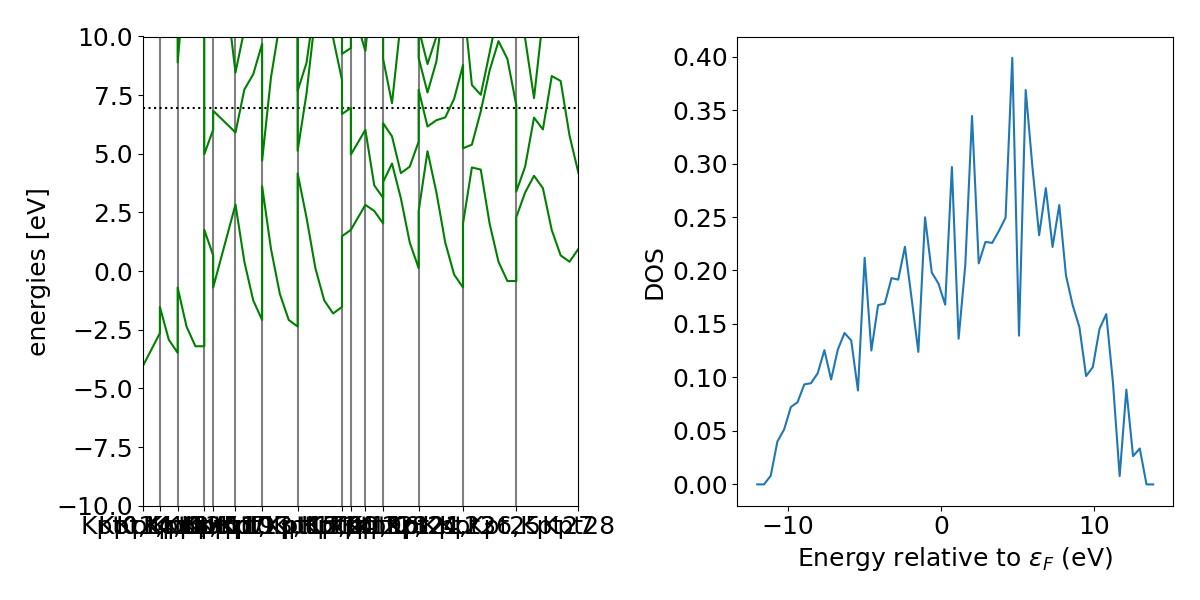
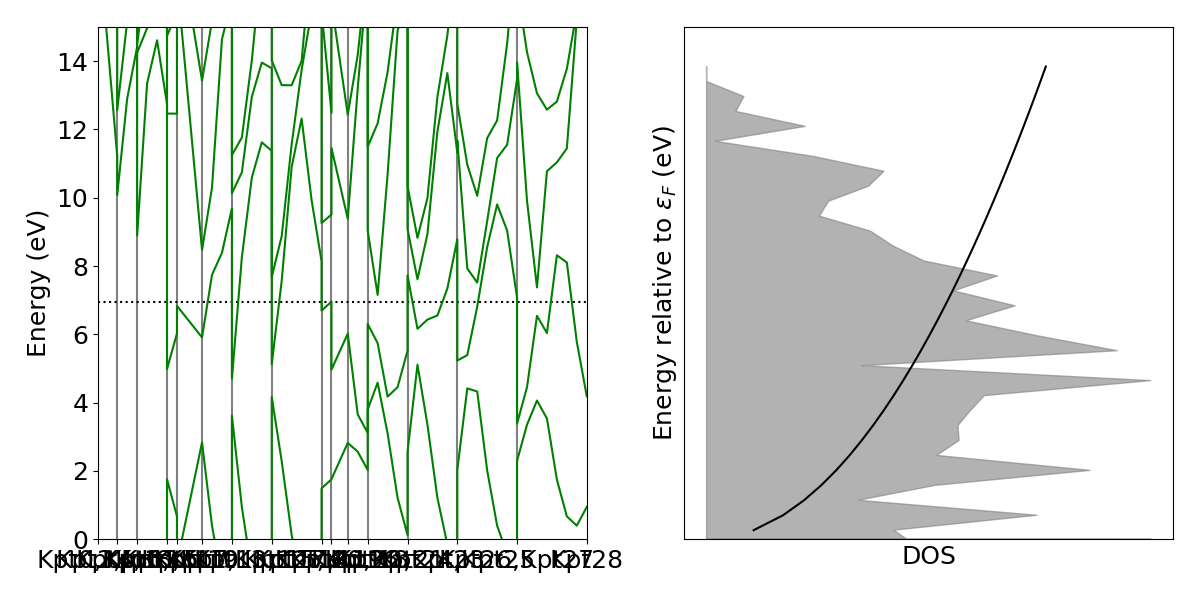
Rerun task7 single cored

Changed region(s): [[0.0, 0.03, 0.5242, 0.96], [0.5242, 0.06, 0.9558, 0.96], [0.0, 0.57, 0.0308, 0.6]]

diff --git a/ComputationalMaterialsAndMolecularphysics/HW5/task7/task7.py b/ComputationalMaterialsAndMolecularphysics/HW5/task7/task7.py
@@ -109,8 +109,8 @@ calc.get_potential_energy()
 
 # Get band structure and dos
 Ebs = atoms.calc.band_structure()  # Get the band structure
-if world.rank == 0:
-    print('Electronic band structure calculated')
+# if world.rank == 0:
+print('Electronic band structure calculated')
 
 e, dos = calc.get_dos(spin=0, npts=1001, width=0.2)  # Get energy and density of states
 e_f = calc.get_fermi_level()  
@@ -123,8 +123,8 @@ Edos = {
 # Save results
 pickle.dump( Ebs, open( "Ebs.p", "wb" ) )  # Save the electronic band structure
 pickle.dump( Edos, open( "Edos.p", "wb" ) )  # Save the electronic DOS
-if world.rank == 0:
-    print('Electronic structure calculation completed')
+# if world.rank == 0:
+print('Electronic structure calculation completed')
 
 
 #### Phononic band structure
@@ -142,25 +142,25 @@ N = 3  # Use a 3x3x3 supercell
 ph = Phonons(atoms, calc, supercell=(N, N, N), delta=0.05, name='./phonons/ph_Si')
 
 # Run the phonon calculation
-if world.rank == 0:
-    print('******** Phonon calculation started *********')
+# if world.rank == 0:
+print('******** Phonon calculation started *********')
 ph.run() 
-if world.rank == 0:
-    print('******** Phonon calculation completed *********')
+# if world.rank == 0:
+print('******** Phonon calculation completed *********')
 ph.read(acoustic=True)
 
 # Define BZ-path - use the same as for the electronic calculation
 path = atoms.cell.bandpath('GXWKL', npoints=60)
 
 # Fetch band structure and dos
-if world.rank == 0:
-    print('******** Calculating phononic band structure *********')
+# if world.rank == 0:
+print('******** Calculating phononic band structure *********')
 Pbs = ph.get_band_structure(path)
-if world.rank == 0:
-    print('******** Phononic band structure calculated *********')
+# if world.rank == 0:
+print('******** Phononic band structure calculated *********')
 Pdos = ph.get_dos(kpts=(20, 20, 20)).sample_grid(npts=60, width=1e-3)
-if world.rank == 0:
-    print('******** Phononic DOS calculated *********')
+# if world.rank == 0:
+print('******** Phononic DOS calculated *********')
 
 # Save results
 pickle.dump( Pbs, open( "Pbs.p", "wb" ) )  # Save the phononic band structure

diff --git a/ComputationalMaterialsAndMolecularphysics/HW5/task6/plot_task6.py b/ComputationalMaterialsAndMolecularphysics/HW5/task6/plot_task6.py
@@ -41,10 +41,32 @@ d = pickle.load(open( "Edos.p", "rb" ))
 
 fig, ax = plt.subplots(1,2, figsize=(12,6))
 # BS
-bs.plot(filename='', ax=ax[0], show=False, emax=10.0)
+emax=15
+bs.plot(filename='', ax=ax[0], show=False, emin=0, emax=emax)
+ax[0].set_ylabel(r'Energy (eV)')
+# lims = (d['e'].min(), d['e'].max())
+# ax[0].set_ylim(lims)
 # DOS
-ax[1].plot(d['e']-d['fermi'], d['dos'])
-ax[1].set_xlabel(r'Energy relative to $\epsilon_F$ (eV)')
-ax[1].set_ylabel('DOS') # TODO set proper units
+# ax[1].plot(d['e']-d['fermi'], d['dos'])
+e = d['e']-d['fermi']
+ax[1].fill_between( d['dos'], e, y2=0, color='grey',
+                   edgecolor='k', lw=1, alpha=0.6)
+ePos = np.array([ ei for ei in e if ei>=0 ])
+# Calculate free electron density
+# Na = 
+# Z = 3 # Nbr of valence electrons of Al
+# rho = 2.72 # g/cm3
+# ma = 
+# n = Na*Z*rho/ma
+n = 1
+freeE = 1.5 * n/d['fermi'] * np.sqrt(ePos/d['fermi'])      
+ax[1].set_ylim(0, emax)
+ax[1].set_yticks([])
+ax[1].set_xticks([])   
+ax[1].plot(freeE, ePos, color='k')
+ax[1].set_xlabel('DOS') # TODO set proper units
+ax[1].set_ylabel(r'Energy relative to $\epsilon_F$ (eV)')
+# ax[1].set_ylim(lims)
+plt.tight_layout()
 plt.tight_layout()
 plt.savefig('electronicAl.png')

diff --git a/ComputationalMaterialsAndMolecularphysics/HW5/task7/plot_task7.py b/ComputationalMaterialsAndMolecularphysics/HW5/task7/plot_task7.py
@@ -42,15 +42,16 @@ d = pickle.load(open( "Edos.p", "rb" ))
 fig, ax = plt.subplots(1,2, figsize=(12,6))
 # BS
 bs.plot(filename='', ax=ax[0], show=False)
-# ax[0].set_ylabel(r'Energy relative to $\epsilon_F$ (eV)')
-# DOS
-# ax[1].plot(d['e']-d['fermi'], d['dos'])
-ax[1].fill_between( d['dos'], d['e'], y2=0, color='grey',
-                   edgecolor='k', lw=1)
-ax[1].set_xlabel('DOS') # TODO set proper units
+ax[0].set_ylabel(r'Energy (eV)')
 lims = (d['e'].min(), d['e'].max())
 ax[0].set_ylim(lims)
-ax[1].set_ylim(lims)
+# DOS
+# ax[1].plot(d['e']-d['fermi'], d['dos'])
+ax[1].fill_between( d['dos'], d['e']-d['fermi'], y2=0, color='grey',
+                   edgecolor='k', lw=1)
+ax[1].set_xlabel('DOS') # TODO set proper units
+ax[1].set_ylabel(r'Energy relative to $\epsilon_F$ (eV)')
+# ax[1].set_ylim(lims)
 plt.tight_layout()
 plt.savefig('electronicSi')
 
